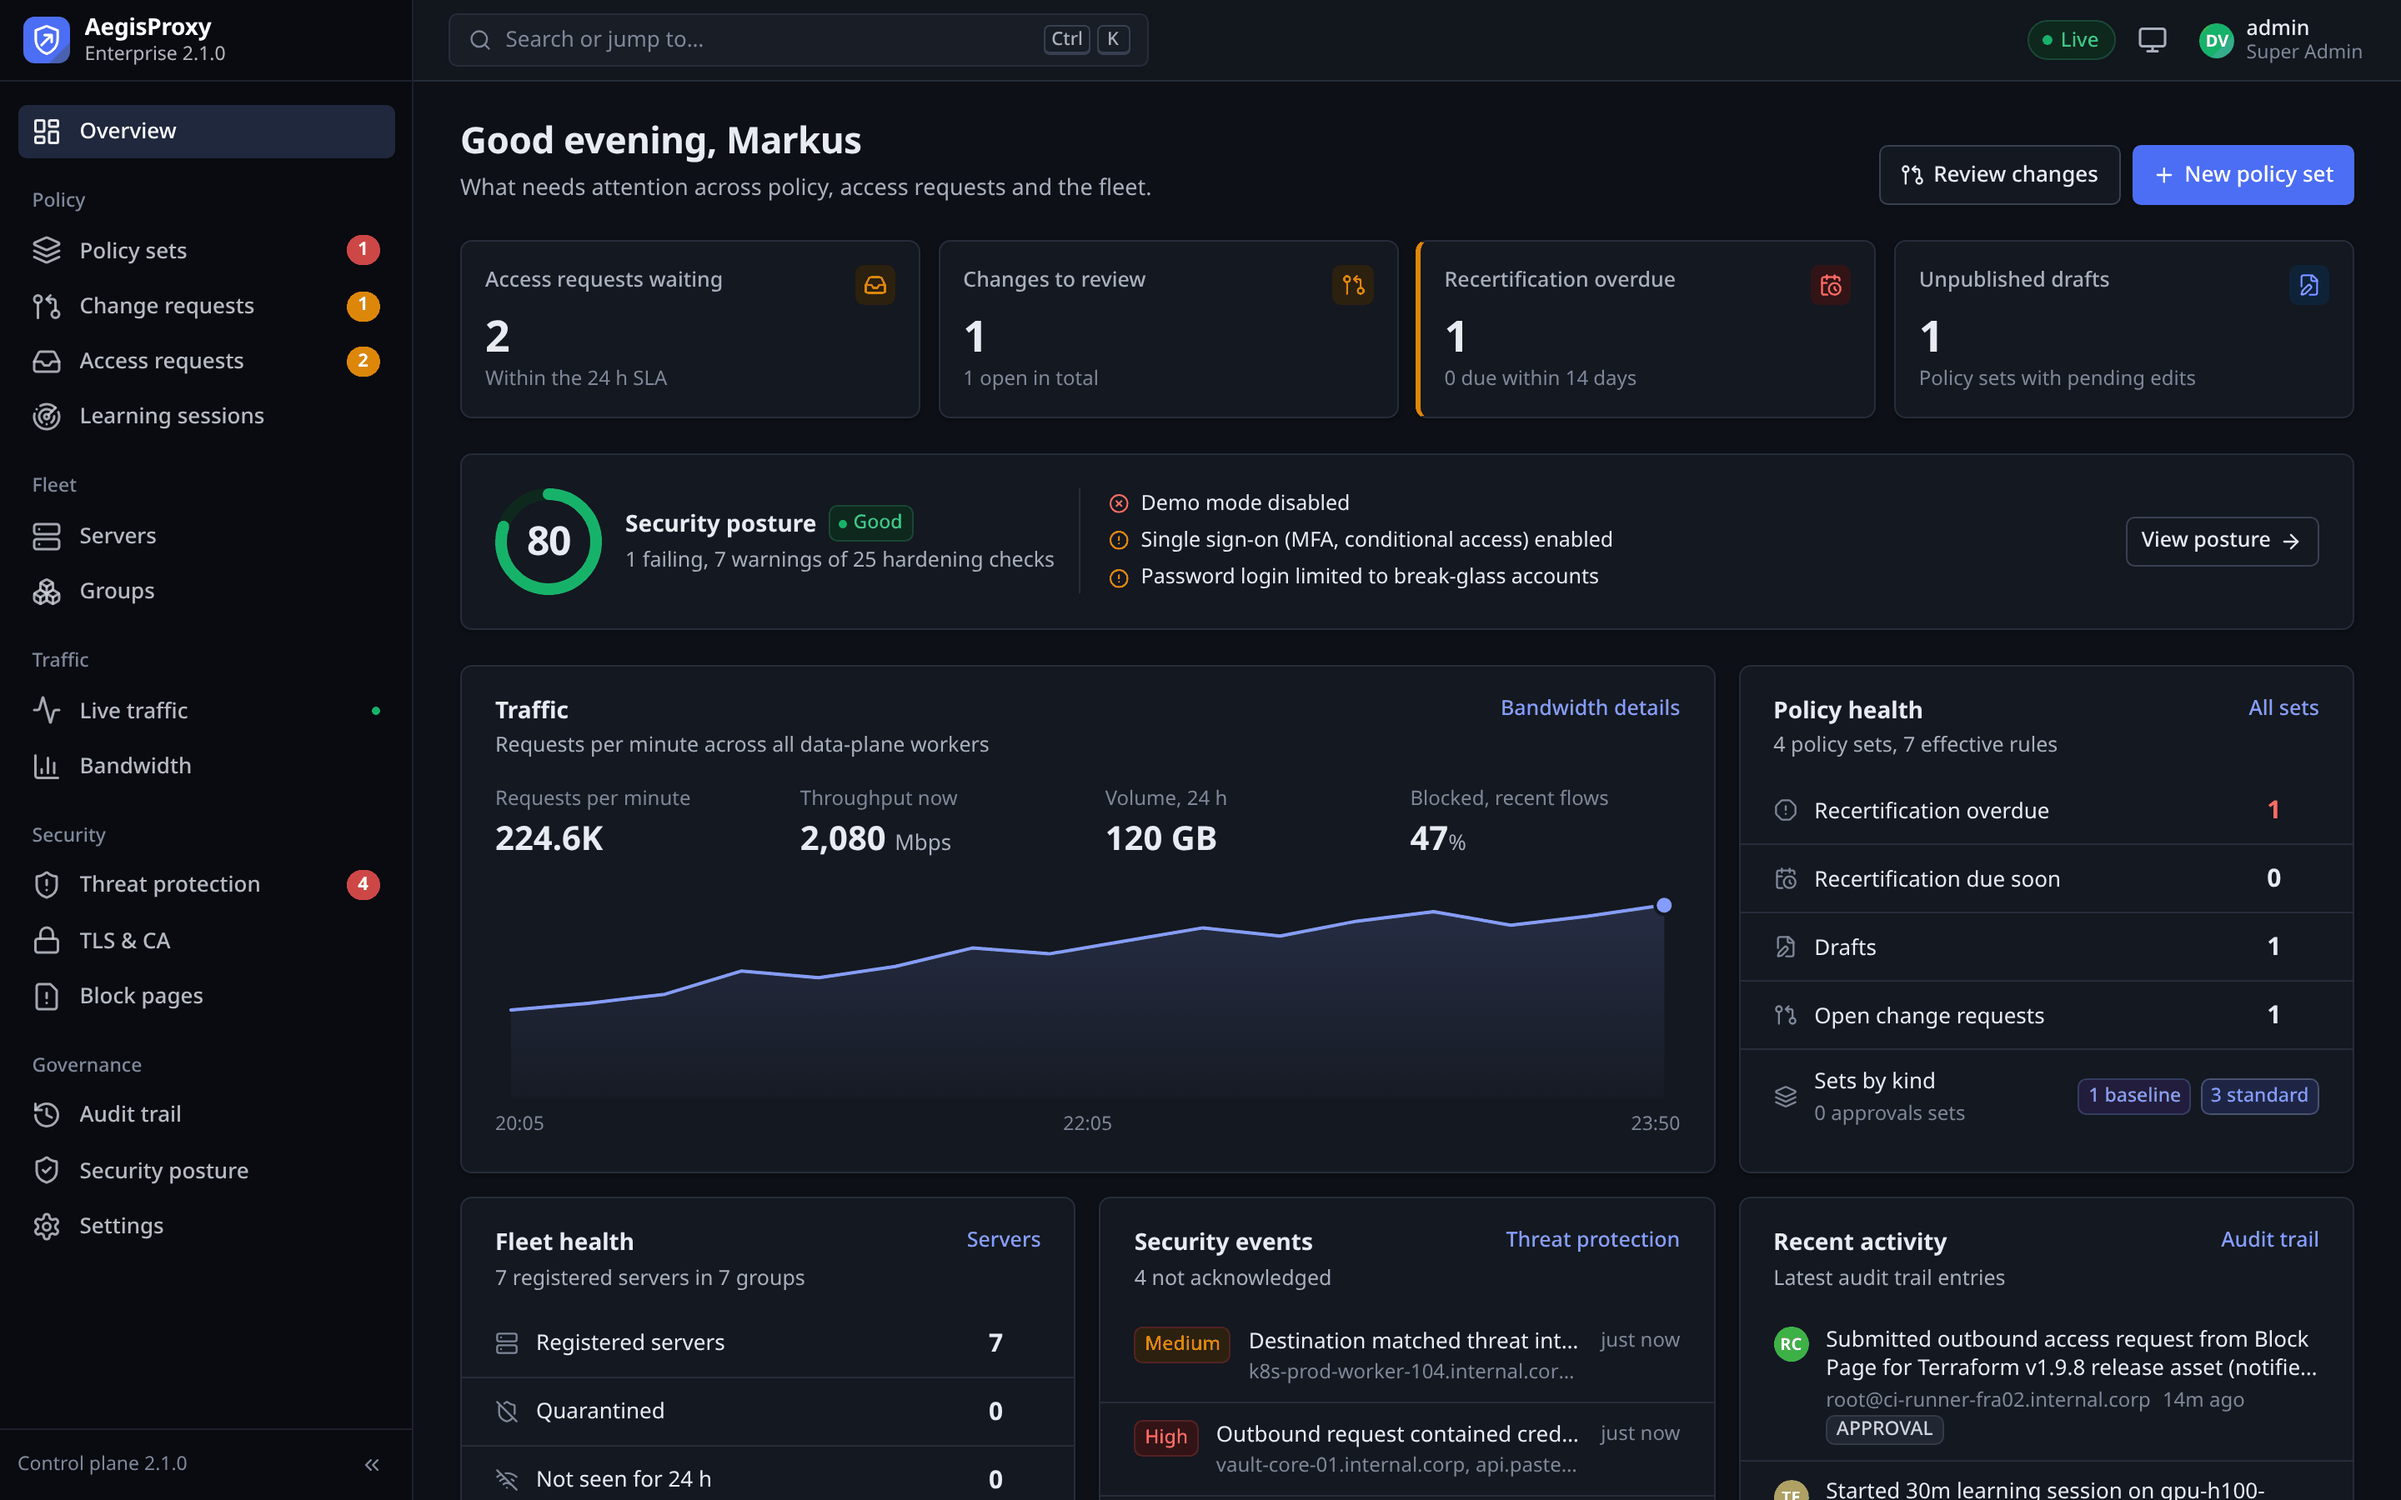
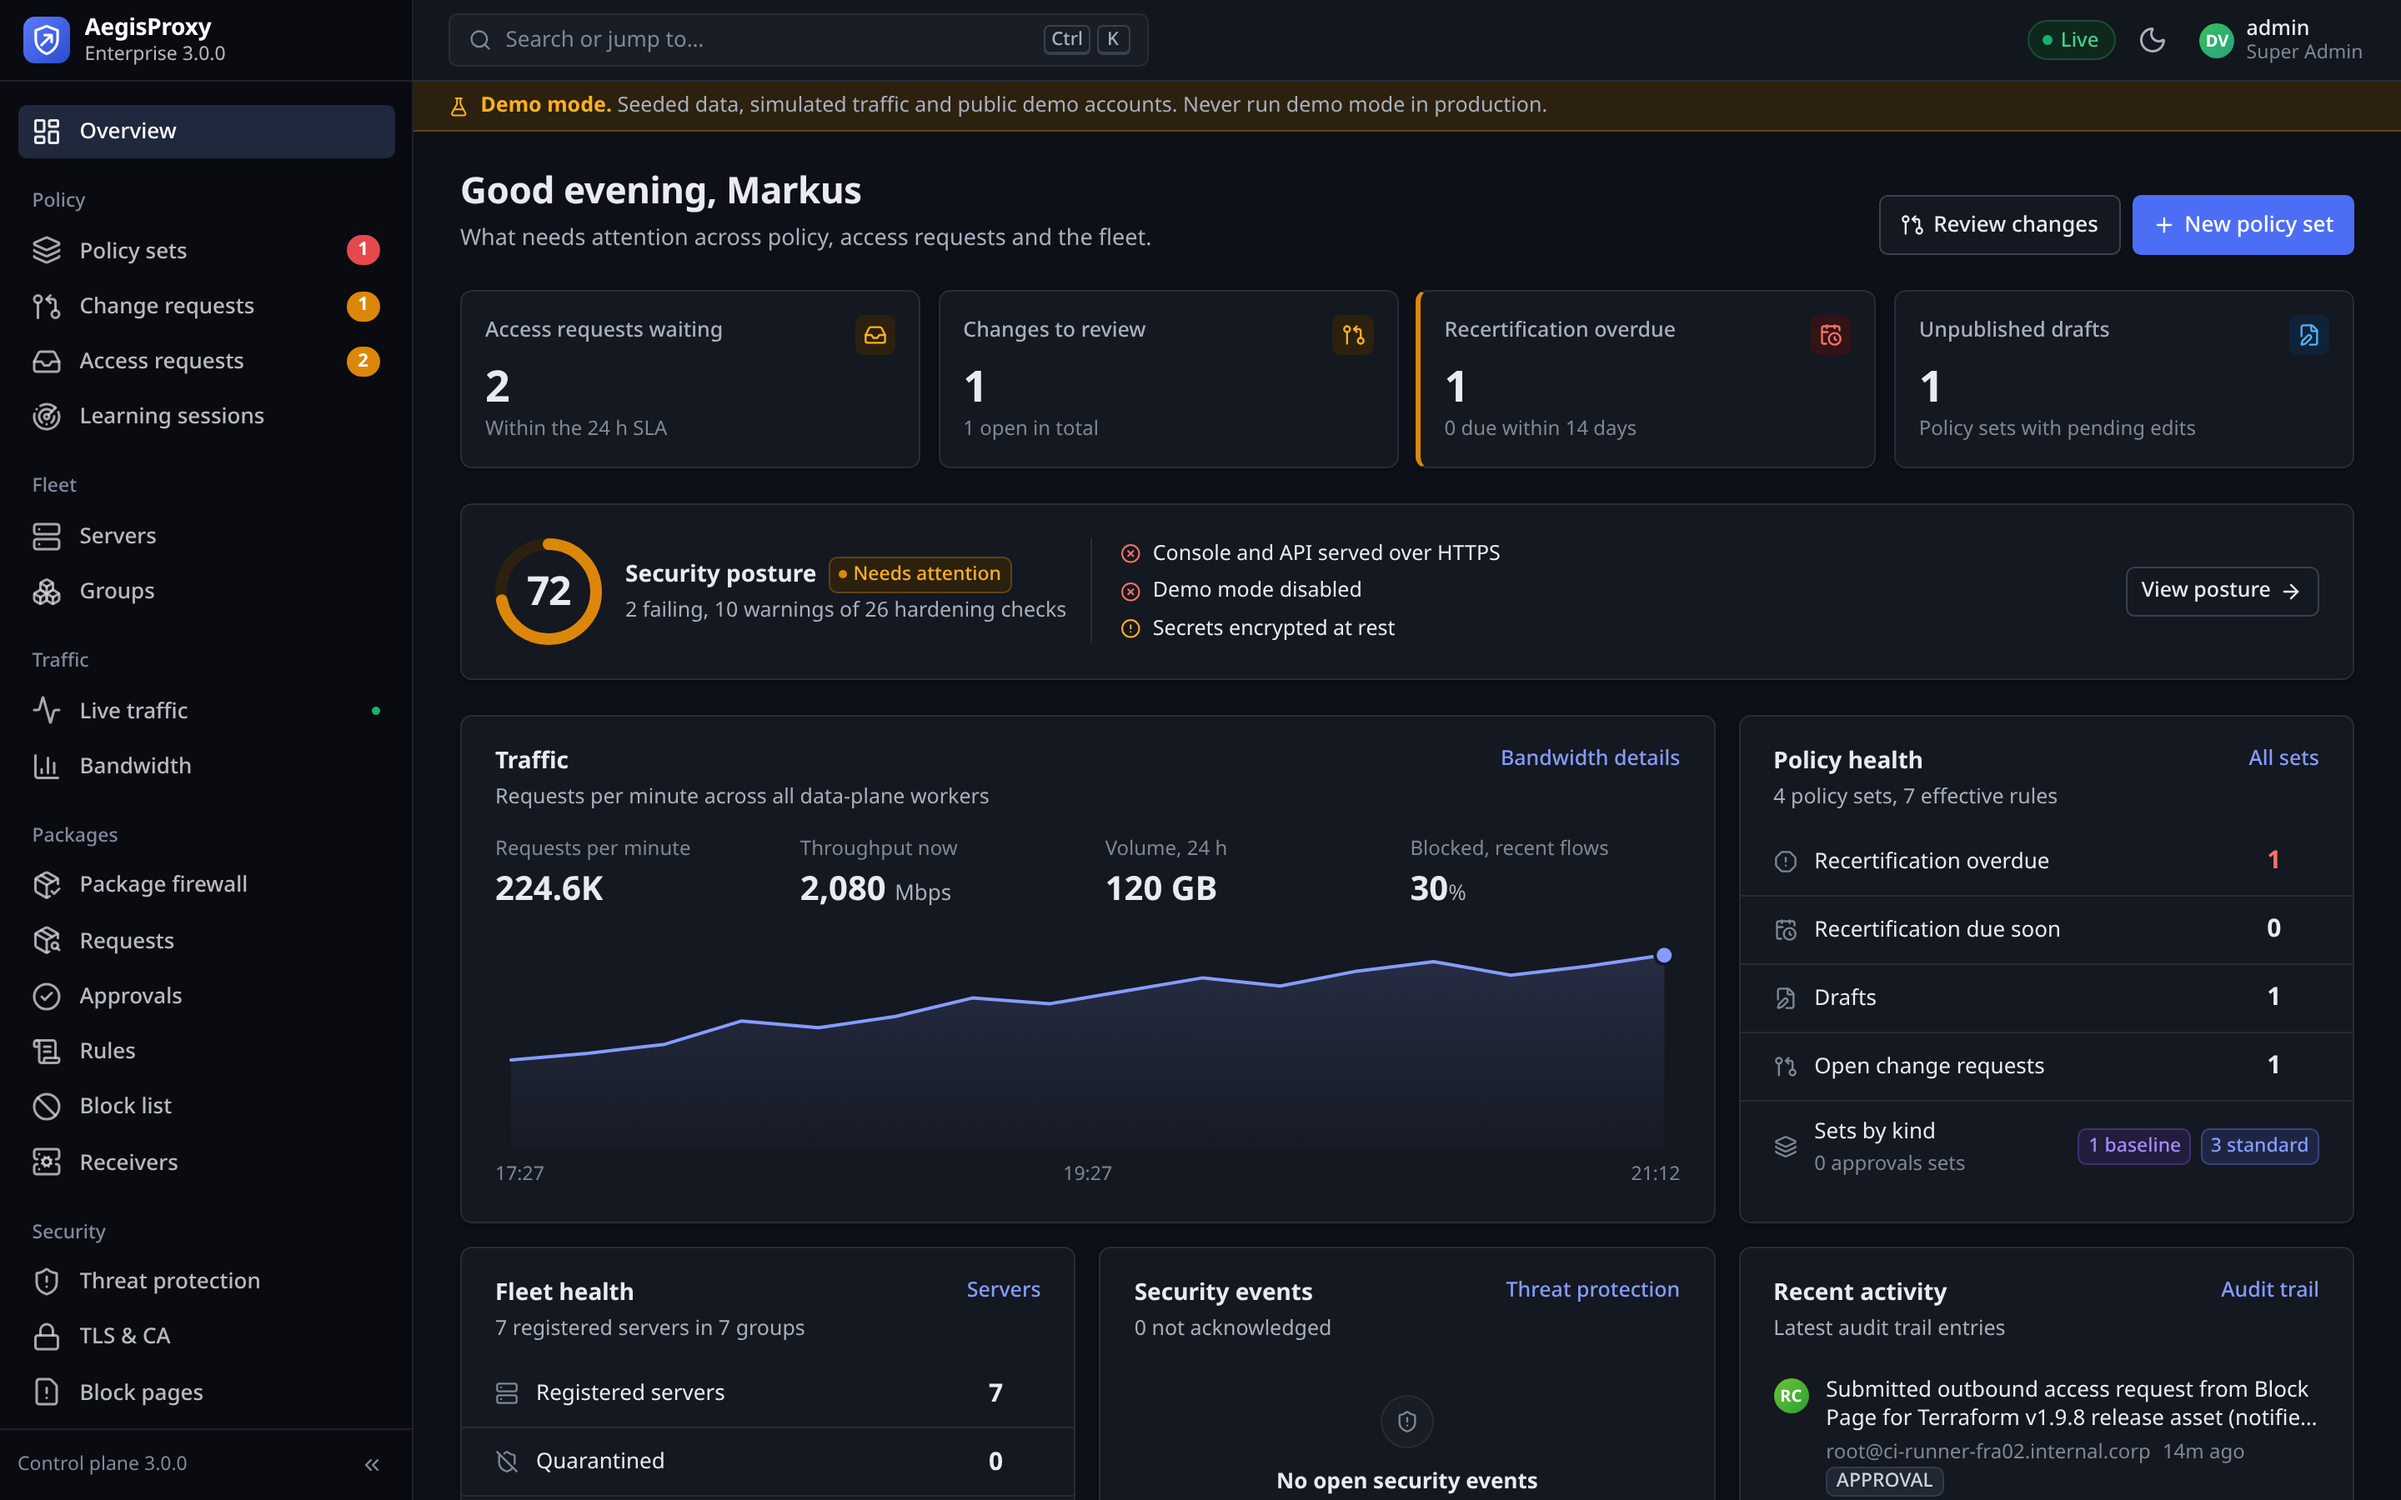
docs: new console screenshots incl. the package firewall
Refresh the overview hero and add package-firewall overview, request review
(dependency graph + sandbox summary), approvals, rules and block-list
screenshots to the console tour (captured from AEGIS_DEMO_MODE with the new
package-firewall seed, dark theme, @2x).

diff --git a/README.md b/README.md
@@ -80,7 +80,25 @@ workers fail closed.
 
 ## A tour of the console
 
-The screenshots show the console with its built-in sample data (`AEGIS_DEMO_MODE=true`).
+The screenshots show the console with its built-in sample data (`AEGIS_DEMO_MODE=true`), which now also
+seeds the package firewall.
+
+### Package firewall — new in 3.0
+
+<img src="docs/images/package-firewall.png" alt="Package firewall overview: ecosystems, work queues, sandbox workers and recent decisions" width="100%">
+
+<table>
+  <tr>
+    <td width="50%"><img src="docs/images/package-request.png" alt="Package request"><br><b>Request review</b> — the full resolved dependency graph with per-package state, risk, signatures and a sandbox summary (hosts contacted, syscalls, install scripts).</td>
+    <td width="50%"><img src="docs/images/package-approvals.png" alt="Package approvals"><br><b>Approvals</b> — approved versions with pinned artifact hashes, risk, how they were approved (manual / rule / dependency) and expiry.</td>
+  </tr>
+  <tr>
+    <td><img src="docs/images/package-rules.png" alt="Package rules"><br><b>Rules</b> — ordered auto-approve / review / block rules with a cooldown (Karenz), signature and sandbox requirements.</td>
+    <td><img src="docs/images/package-blocks.png" alt="Package block list"><br><b>Block list</b> — versions denied regardless of approvals, with the reason and source (advisory / sandbox / manual).</td>
+  </tr>
+</table>
+
+### Zero-trust egress
 
 <table>
   <tr>
